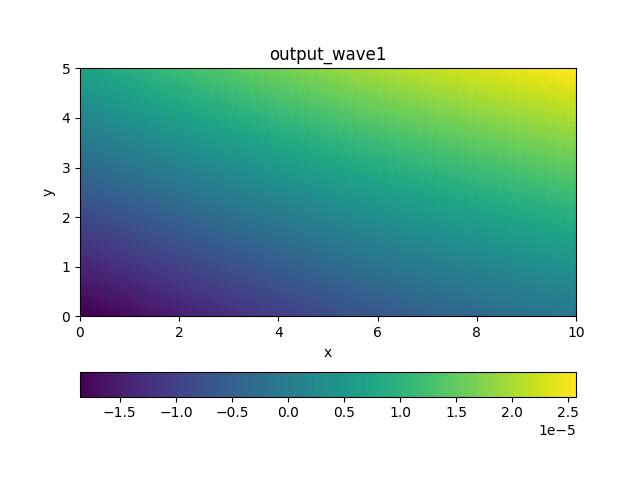
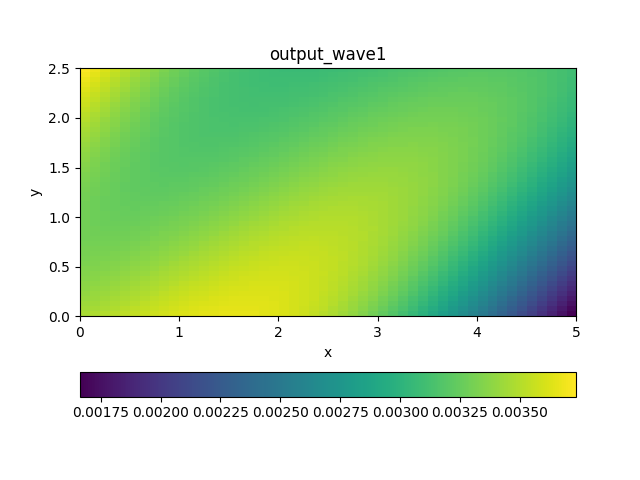
return input output saving to model class take differentiating functions out of class and make them fucntions with same inputs plus a instance of a class with a input and output attribute. I think this makes more sense as they are differential operators that act on a function. Added device input to 

diff --git a/project8/neural_network/implementations/param_dicts.py b/project8/neural_network/implementations/param_dicts.py
@@ -1,0 +1,130 @@
+from project8.neural_network import utils
+from project8.neural_network import modules
+import torch
+from project8.neural_network.implementations import loss_functions as lf
+
+
+def default() -> utils.Params:
+    hyperparams: utils.Params = {
+        'device': 'cpu',
+        # model params
+        'model_constructor': 'rectangular_fnn',
+        'act_fn': modules.PolyReLU(3),
+        'n_in': 1,
+        'n_out': 1,
+        'width': 32,
+        'depth': 7,
+        'n_blocks': 4,
+        'n_linear_drm': 2,
+        'weight_init_fn': torch.nn.init.xavier_uniform_,
+        'bias_init_fn': torch.nn.init.zeros_,
+        'weight_init_kwargs': {'gain': 0.5},
+        'bias_init_kwargs': {},
+        # training params
+        'optimizer': torch.optim.Adam,
+        'lr': 1e-3,
+        'n_epochs': 5000,
+        'loss_fn_batch_sizes': [],
+        # problem definition
+        'loss_fns': [],
+        'loss_weights': [],
+        'loss_fn_data': []
+    }
+    return hyperparams
+
+
+def pinn_2d_laplacian() -> utils.Params:
+    device = utils.get_device()
+    coord_space = utils.ParameterSpace([[-1, 2], [-1, 1]], device)
+    hyperparams: utils.Params = {
+        'device': device,
+        # model params
+        'model_constructor': 'rectangular_fnn',
+        'act_fn': modules.FourierLike(64),
+        'n_in': 2,
+        'n_out': 1,
+        'width': 64,
+        'depth': 9,
+        'weight_init_fn': torch.nn.init.xavier_uniform_,
+        'bias_init_fn': torch.nn.init.zeros_,
+        'weight_init_kwargs': {'gain': 0.5},
+        'bias_init_kwargs': {},
+        # training params
+        'optimizer': torch.optim.Adam,
+        'lr': 1e-3,
+        'n_epochs': 5000,
+        'loss_fn_batch_sizes': [100, 50],
+        # problem definition
+        'loss_fns': [lf.PINN.nd_laplacian, lf.dirichlet_bc_penalty],
+        'loss_weights': [1, 10],
+        'loss_fn_data': [
+            coord_space.rand(100000), coord_space.bndry_rand(100000)
+        ],
+    }
+    return hyperparams
+
+
+def drm_2d_laplacian() -> utils.Params:
+    device = utils.get_device()
+    coord_space = utils.ParameterSpace([[-1, 2], [-1, 1]], device)
+    hyperparams: utils.Params = {
+        'device': device,
+        # model params
+        'model_constructor': 'drm',
+        'act_fn': modules.PolyReLU(3),
+        'n_in': 2,
+        'n_out': 1,
+        'width': 20,
+        'n_blocks': 4,
+        'n_linear_drm': 2,
+        'weight_init_fn': torch.nn.init.xavier_uniform_,
+        'bias_init_fn': torch.nn.init.zeros_,
+        'weight_init_kwargs': {'gain': 0.5},
+        'bias_init_kwargs': {},
+        # training params
+        'optimizer': torch.optim.Adam,
+        'lr': 1e-3,
+        'n_epochs': 5000,
+        'loss_fn_batch_sizes': [1000, 500],
+        # problem definition
+        'loss_fns': [lf.DRM.nd_laplacian, lf.dirichlet_bc_penalty],
+        'loss_weights': [1, 10],
+        'loss_fn_data': [
+            coord_space.rand(100000), coord_space.bndry_rand(100000)
+        ],
+    }
+    return hyperparams
+
+
+def pinn_2d_wave() -> utils.Params:
+    device = utils.get_device()
+    coord_space = utils.ParameterSpace([[0, 10], [0, 5], [0, 4]], device)
+    boundary_select = torch.tensor(
+        [[1, 1], [1, 1], [1, 0]], device=device, dtype=torch.float64)
+    hyperparams: utils.Params = {
+        'device': device,
+        # model params
+        'model_constructor': 'rectangular_fnn',
+        'act_fn': torch.nn.Tanh(),
+        'n_in': 3,
+        'n_out': 1,
+        'width': 64,
+        'depth': 7,
+        'weight_init_fn': torch.nn.init.xavier_uniform_,
+        'bias_init_fn': torch.nn.init.zeros_,
+        'weight_init_kwargs': {'gain': 0.5},
+        'bias_init_kwargs': {},
+        # training params
+        'optimizer': torch.optim.Adam,
+        'lr': 1e-3,
+        'n_epochs': 5000,
+        'loss_fn_batch_sizes': [1000, 800],
+        # problem definition
+        'loss_fns': [lf.PINN.wave_2d, lf.dirichlet_bc_penalty],
+        'loss_weights': [1, 10],
+        'loss_fn_data': [
+            coord_space.rand(1000000),
+            coord_space.select_bndry_rand(1000000, boundary_select)
+        ],
+    }
+    return hyperparams

diff --git a/project8/neural_network/implementations/pinn_2d_wave.py b/project8/neural_network/implementations/pinn_2d_wave.py
@@ -58,10 +58,14 @@ def pinn_wave_ic(diff: aw.Differentiator) -> torch.Tensor:
     return diff.output().pow(2).mean()
 
 
+def fit_to_source(diff: aw.Differentiator) -> torch.Tensor:
+    return (diff.output() - F(diff.input())).pow(2).mean()
+
+
 def train() -> None:
     device = utils.get_device()
     # init model
-    act_fn = modules.FourierActivation(64)
+    act_fn = torch.nn.Tanh()
     model = models.NN.rectangular_fnn(3, 1, 64, 9, act_fn=act_fn)
     logging.info(model)
     model.to(device)
@@ -69,15 +73,16 @@ def train() -> None:
     model.initialize_weights(
         torch.nn.init.xavier_uniform_,
         torch.nn.init.zeros_,
-        weight_init_kwargs={'gain': 0.5})
+        weight_init_kwargs={'gain': 0.7})
 
     # training params
-    n_epochs = 5000
-    optimizer = torch.optim.Adam(model.parameters(), lr=1e-3)
+    n_epochs = 10000
+    optimizer = torch.optim.AdamW(model.parameters(), lr=1e-2)
+    lr_scheduler = torch.optim.lr_scheduler.StepLR(optimizer, 20, gamma=0.99)
     diff = aw.Differentiator(function_to_attach=model)
-    coord_space = utils.ParameterSpace([[0, 10], [0, 5], [0, 4]], device)
+    coord_space = utils.ParameterSpace([[0, 5], [0, 2.5], [0, 1]], device)
     domain_data_loader = utils.DataLoader(
-        coord_space.rand(100000), 3000, device=device,
+        coord_space.rand(100_000_000), 10000, device=device,
         output_requires_grad=True)
     bc_select = torch.tensor([[1, 1], [1, 1], [0, 0]], device=device,
                              dtype=torch.float64)
@@ -89,28 +94,37 @@ def train() -> None:
     ic_data_loader = utils.DataLoader(
         coord_space.select_bndry_rand(100000, ic_select), 300, device=device,
         output_requires_grad=True)
+    grid_dl = utils.DataLoader(coord_space.fgrid(50), 50, device=device,
+                               output_requires_grad=True)
     problem: list[list[Any]] = [
         [pinn_wave_pde, domain_data_loader, 1],
         [pinn_wave_bc, bc_data_loader, 1],
         [pinn_wave_ic, ic_data_loader, 1]
     ]
+    problem_2: list[list[Any]] = [
+        [fit_to_source, domain_data_loader, 1]
+    ]
 
     # train
     for epoch in range(n_epochs):
         loss: torch.Tensor = torch.tensor(0.0, device=device)
-        for i in problem:
+        for i in problem_2:
             diff.set_input(i[1]())
             loss += i[2] * i[0](diff)
         optimizer.zero_grad()
         loss.backward()  # type: ignore
         optimizer.step()
+        lr_scheduler.step()
         if epoch % 100 == 0:
-            print(f'Epoch {epoch}, loss: {loss.item()}')
+            print(
+                f'Epoch {epoch}, loss: {loss.item()}, '
+                f'lr: {lr_scheduler.get_last_lr()}')
 
     # plot output
     grid = coord_space.fgrid(50)
     model.eval()
     output = model(grid)
+    source_fn = F(grid)
     x, y, t = coord_space.regrid(grid)
     f = coord_space.regrid(output)[0]
 

diff --git a/project8/neural_network/implementations/param_based.py b/project8/neural_network/implementations/param_based.py
@@ -2,46 +2,24 @@ from project8.neural_network import utils
 from project8.neural_network import modules
 from project8.neural_network import models
 from project8.neural_network import trainer
-from project8.neural_network.differential_operators import *
 import torch
 import matplotlib.pyplot as plt
-from project8.neural_network.implementations import loss_functions as lf
+from project8.neural_network.implementations import param_dicts
 
-
-device = utils.get_device()
-coord_space = utils.ParameterSpace([[-1, 2], [-1, 1]], device)
-hyperparams: utils.Params = {
-    'device': device,
-    # model params
-    'model_constructor': 'rectangular_fnn',
-    'act_fn': modules.PolyReLU(3),
-    'n_in': 2,
-    'n_out': 1,
-    'width': 64,
-    'depth': 9,
-    'weight_init_fn': torch.nn.init.xavier_uniform_,
-    'bias_init_fn': torch.nn.init.zeros_,
-    'weight_init_kwargs': {'gain': 0.5},
-    'bias_init_kwargs': {},
-    # training params
-    'optimizer': torch.optim.Adam,
-    'lr': 1e-3,
-    'n_epochs': 5000,
-    'loss_fn_batch_sizes': [1000, 500],
-    # problem definition
-    'loss_fns': [lf.PINN.nd_laplacian, lf.dirichlet_bc_penalty],
-    'loss_weights': [1, 10],
-    'loss_fn_data': [
-        coord_space.rand(100000), coord_space.bndry_rand(100000)
-    ],
-}
 
 def main() -> None:
+    hyperparams = param_dicts.pinn_2d_laplacian()
     model = models.NN.from_param_dict(hyperparams)
     trnr = trainer.trainer(model, hyperparams, verbose=True)
     trnr.train()
-    plt.semilogy(trnr.loss_history)
-    plt.show()
+    coord_space = utils.ParameterSpace([[-1, 2], [-1, 1]],
+                                       hyperparams['device'])
+    # plot output
+    grid = coord_space.fgrid(200)
+    output = model(grid)
+    x, y = coord_space.regrid(grid)
+    f = coord_space.regrid(output)[0]
+    utils.plot_2d(x, y, f, title='output_param_based', fig_id=2)
     pass
 
 

diff --git a/project8/neural_network/utils.py b/project8/neural_network/utils.py
@@ -272,6 +272,11 @@ def format_time(t: float) -> str:
 
 
 class Params(TypedDict, total=False):
+    """
+    Parameters fully defining a problem, model and training setup.
+    To improve functionality and take different hyperparameters,
+    change or create new model and trainer class.
+    """
     device: torch.device | str
     # training params
     n_epochs: int
@@ -284,15 +289,15 @@ class Params(TypedDict, total=False):
     # model params
     model_constructor: str
     weight_init_fn: Callable[
-                     [torch.Tensor, Any], torch.Tensor
-                 ] | Callable[
-                     [torch.Tensor], torch.Tensor
-                 ]
+                        [torch.Tensor, Any], torch.Tensor
+                    ] | Callable[
+                        [torch.Tensor], torch.Tensor
+                    ]
     bias_init_fn: Callable[
-                   [torch.Tensor, Any], torch.Tensor
-               ] | Callable[
-                   [torch.Tensor], torch.Tensor
-               ]
+                      [torch.Tensor, Any], torch.Tensor
+                  ] | Callable[
+                      [torch.Tensor], torch.Tensor
+                  ]
     weight_init_kwargs: Optional[Dict[str, Any]]
     bias_init_kwargs: Optional[Dict[str, Any]]
     # rectangular_fnn

diff --git a/project8/neural_network/modules.py b/project8/neural_network/modules.py
@@ -78,7 +78,7 @@ class Sin(AbstractModule):
         return torch.sin(x * self.freq)
 
 
-class FourierActivation(AbstractModule):
+class FourierLike(AbstractModule):
     """
     Fourier series like activation function with learnable parameters
     for every neuron: x = a*sin(f*x + p), where a, f, p are learnable
@@ -93,3 +93,20 @@ class FourierActivation(AbstractModule):
 
     def forward(self, x: torch.Tensor) -> torch.Tensor:
         return torch.sin(self.freqs * x + self.phases) * self.amps
+
+
+class GaussianLike(AbstractModule):
+    """
+    Gaussian like activation function with learnable parameters
+    for every neuron: x = a*exp(-b*(x - c)^2), where a, b, c are learnable
+    """
+
+    def __init__(self, width: int) -> None:
+        super().__init__(width=width)
+        self.width: int = width
+        self.std: nn.Parameter = nn.Parameter(torch.randn(1, width))
+        self.mean: nn.Parameter = nn.Parameter(torch.randn(1, width))
+
+    def forward(self, x: torch.Tensor) -> torch.Tensor:
+        return torch.exp(-0.5 * ((x - self.mean) / self.std) ** 2) / (
+                self.std * torch.sqrt(2 * torch.tensor(torch.pi)))

diff --git a/project8/neural_network/models.py b/project8/neural_network/models.py
@@ -10,13 +10,14 @@ from project8.neural_network.utils import Params
 from typing import Callable, Dict, Any, Optional, Self, TypedDict
 
 
-
 class NN(nn.Module):
     """
     Sequential model class.
     saves input, output, and cache to be able to compute derivatives.
     """
-    def __init__(self, layers: nn.ModuleList, device: str | torch.device = 'cpu') -> None:
+
+    def __init__(self, layers: nn.ModuleList,
+                 device: str | torch.device = 'cpu') -> None:
         super().__init__()
         self.layers: nn.ModuleList = layers
         self.double()

diff --git a/project8/neural_network/implementations/pinn_2d_poisson.py b/project8/neural_network/implementations/pinn_2d_poisson.py
@@ -24,7 +24,7 @@ def pinn_bndry_loss(diff: aw.Differentiator) -> torch.Tensor:
 def train() -> None:
     device = utils.get_device()
     # init model
-    act_fn = modules.FourierActivation(64)
+    act_fn = modules.FourierLike(64)
     model = models.NN.rectangular_fnn(2, 1, 64, 9, act_fn=act_fn)
     logging.info(model)
     model.to(device)

diff --git a/project8/neural_network/implementations/pinn_2d_poisson_alt_diff.py b/project8/neural_network/implementations/pinn_2d_poisson_alt_diff.py
@@ -24,7 +24,7 @@ def pinn_bndry_loss(model: models.NN) -> torch.Tensor:
 def train() -> None:
     device = utils.get_device()
     # init model
-    act_fn = modules.FourierActivation(64)
+    act_fn = modules.FourierLike(64)
     model = models.NN.rectangular_fnn(2, 1, 64, 9, act_fn=act_fn)
     logging.info(model)
     model.to(device)

diff --git a/project8/neural_network/implementations/loss_functions.py b/project8/neural_network/implementations/loss_functions.py
@@ -26,7 +26,7 @@ def wave_source(input: torch.Tensor) -> torch.Tensor:
     for i in a:
         f += torch.exp(
             -alpha * (input[:, 0] - i[0]) ** 2 - alpha * (
-                        input[:, 1] - i[1]) ** 2)
+                    input[:, 1] - i[1]) ** 2)
     return (f * torch.sin(omega * input[:, 2])).unsqueeze(1)
 
 

diff --git a/project8/neural_network/autograd_wrapper.py b/project8/neural_network/autograd_wrapper.py
@@ -21,7 +21,7 @@ class Differentiator:
 
     def __init__(self, function_to_attach: Callable[
         [torch.Tensor], torch.Tensor]
-    ) -> None:
+                 ) -> None:
         self.function = function_to_attach
         self.__input: torch.Tensor = torch.Tensor()
         self.__output: torch.Tensor = torch.Tensor()

diff --git a/project8/neural_network/trainer.py b/project8/neural_network/trainer.py
@@ -5,7 +5,6 @@ import logging
 from typing import Any, Callable, TypedDict, Optional
 
 
-
 class trainer:
     def __init__(self, model: NN, params: utils.Params,
                  verbose: bool = False
